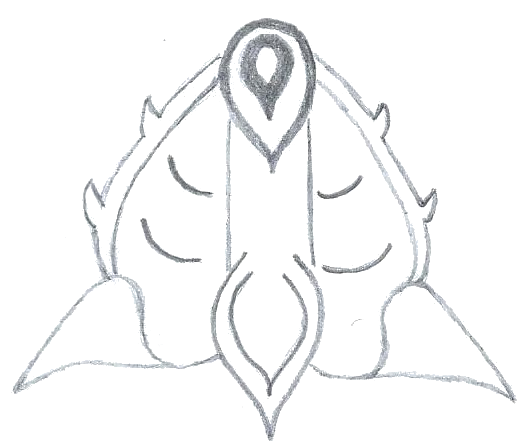
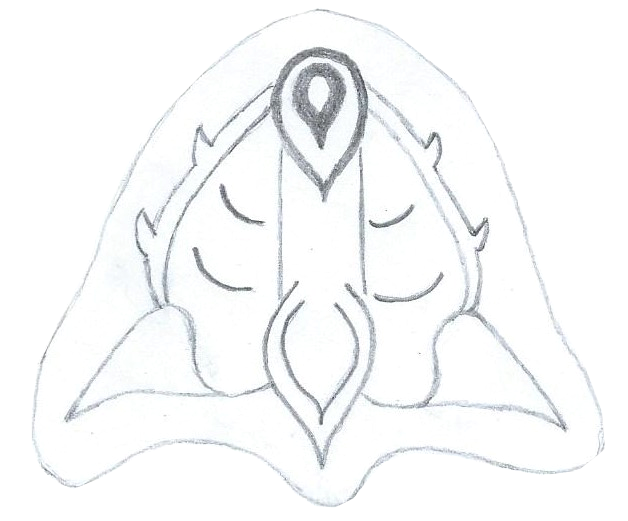
finished art style

diff --git a/src/renderer/Sprites.cpp b/src/renderer/Sprites.cpp
@@ -46,11 +46,11 @@ class Sprite* Sprites::get(SpriteEnum sprite)
 std::map <SpriteEnum, SpriteInitList> Sprites::spriteTextures()
 {
 	return map<SpriteEnum, SpriteInitList>({
-		{ SpriteEnum::Monster, {GridSpriteSheet, 0, 0, 0.25, 0.25}},
-        { SpriteEnum::WallBlock, {WallTexture, 0, 0, 1, 1 }},
+		{ SpriteEnum::Monster, {MonsterTexture, 0, 0, 1, 1}},
+        { SpriteEnum::WallBlock, {WallTexture, 0, 0, 1, 1}},
         { SpriteEnum::ChatIcon, {ChatTexture, 0, 0, 1, 1}},
 		{ SpriteEnum::SelectedBlock, {SelectionTexture, 0, 0, 1, 1}},
-        { SpriteEnum::Unit, {UnitTexture, 0, 0, 1, 1} },
+        { SpriteEnum::Unit, {UnitTexture, 0, 0, 1, 1}},
 		{ SpriteEnum::GridBlock, {GridTexture, 0, 0, 0.5, 0.5}}
 	});
 }

diff --git a/src/renderer/Textures.cpp b/src/renderer/Textures.cpp
@@ -37,7 +37,7 @@ class Texture* Textures::get(TextureEnum texture)
 std::map<TextureEnum, string> Textures::texturePaths()
 {
 	return map<TextureEnum, string>({
-		{GridSpriteSheet, "res/gridSpriteSheet.png"},
+		{MonsterTexture, "res/monster.png"},
         {UnitTexture, "res/unit.png"},
         {SelectionTexture, "res/selected.png"},
         {GridTexture, "res/grid.png"},

diff --git a/src/renderer/Textures.h b/src/renderer/Textures.h
@@ -6,7 +6,7 @@ using namespace std;
 
 enum TextureEnum
 {
-	GridSpriteSheet,
+	MonsterTexture,
     UnitTexture,
     SelectionTexture,
     GridTexture,
